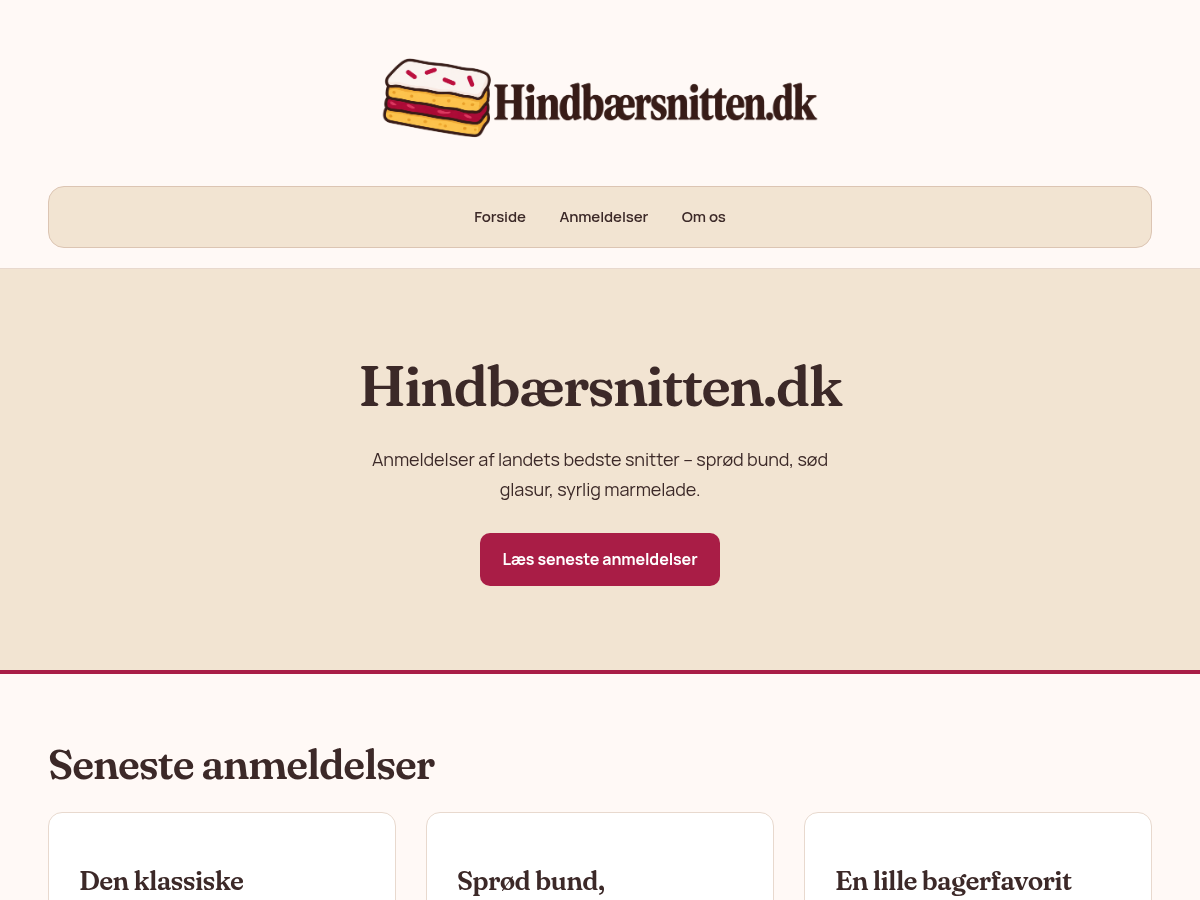
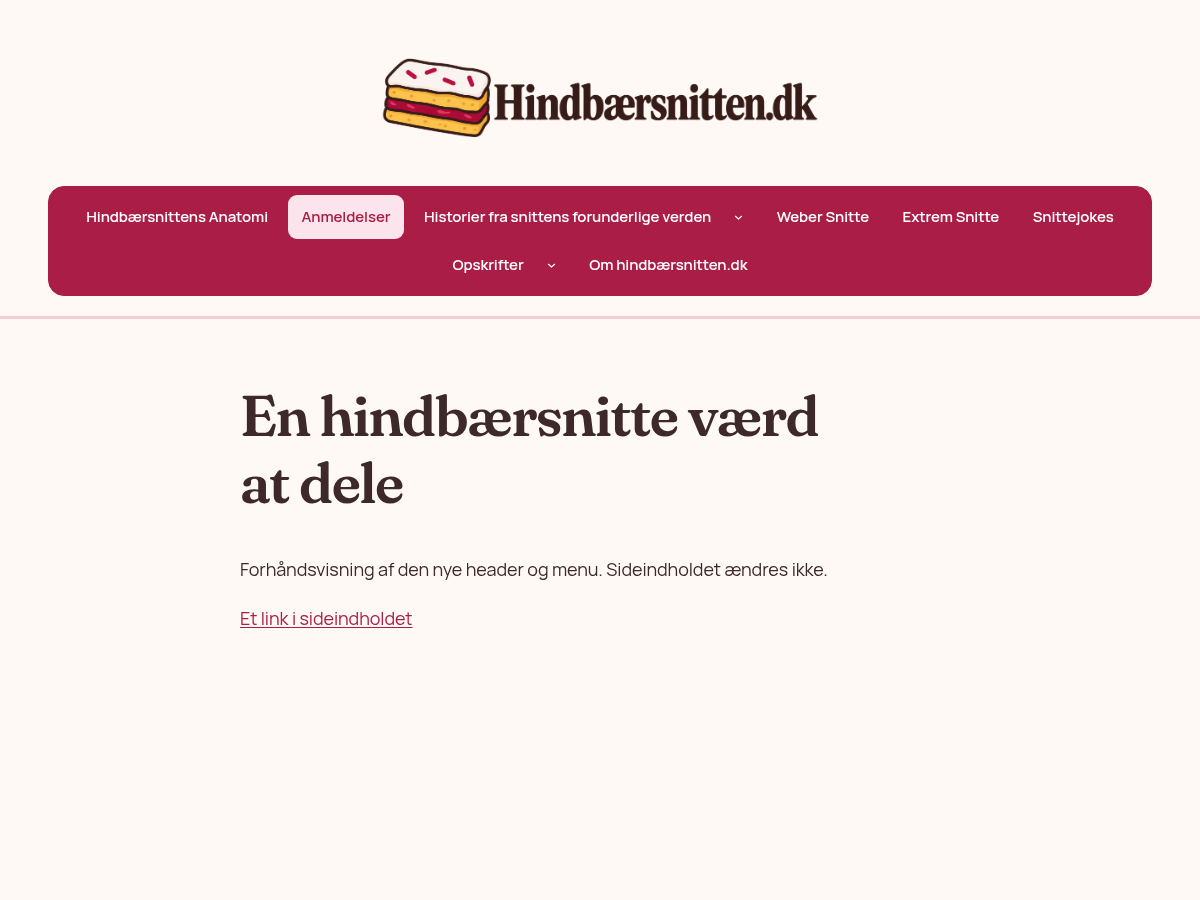
Give header navigation raspberry and pink accents

diff --git a/assets/css/custom.css b/assets/css/custom.css
@@ -176,7 +176,7 @@ body { -webkit-font-smoothing: antialiased; }
 /* Header: a quiet logo row and a distinct, framed navigation bar. */
 .hs-site-header {
   padding: clamp(.75rem, 1.8vw, 1.5rem) var(--hs-gutter) 1.25rem;
-  border-bottom: 1px solid var(--hs-border);
+  border-bottom: 3px solid #f3ccd8;
   background: var(--wp--preset--color--icing);
 }
 .hs-site-header .hs-header-inner {
@@ -193,10 +193,10 @@ body { -webkit-font-smoothing: antialiased; }
   box-sizing: border-box;
   width: 100%;
   padding: .5rem;
-  border: 1px solid #dcc5b3;
+  border: 1px solid var(--wp--preset--color--raspberry);
   border-radius: 16px;
-  background: var(--wp--preset--color--shortbread);
-  color: var(--wp--preset--color--chocolate);
+  background: var(--wp--preset--color--raspberry);
+  color: #fff;
   justify-content: center;
   font-size: .9375rem;
 }
@@ -215,25 +215,25 @@ nav.hs-header-menu .wp-block-navigation-item__content {
   line-height: 1.5;
 }
 nav.hs-header-menu .wp-block-navigation-item:hover,
-nav.hs-header-menu .wp-block-navigation-item:focus-within { background: var(--wp--preset--color--white); }
+nav.hs-header-menu .wp-block-navigation-item:focus-within { background: #fce4ec; color: var(--wp--preset--color--raspberry); }
 nav.hs-header-menu .wp-block-navigation-item__content:hover { color: var(--wp--preset--color--raspberry); text-decoration: none; }
 nav.hs-header-menu :is(.current-menu-item, .current_page_item) > .wp-block-navigation-item__content,
 nav.hs-header-menu .wp-block-navigation-item__content[aria-current="page"] {
-  background: var(--wp--preset--color--raspberry);
-  color: #fff;
+  background: #fce4ec;
+  color: var(--wp--preset--color--raspberry);
 }
 nav.hs-header-menu .wp-block-navigation-item__content:focus-visible,
-nav.hs-header-menu button:focus-visible { outline: 2px solid var(--wp--preset--color--raspberry); outline-offset: 3px; }
+nav.hs-header-menu button:focus-visible { outline: 2px solid #fce4ec; outline-offset: 3px; }
 nav.hs-header-menu .wp-block-navigation-submenu__toggle { color: inherit; min-height: 44px; }
 nav.hs-header-menu .wp-block-navigation__submenu-icon { min-width: 28px; min-height: 44px; margin: 0 .25rem 0 0; }
-nav.hs-header-menu .wp-block-navigation__submenu-container {
+nav.hs-header-menu.wp-block-navigation .wp-block-navigation__submenu-container {
   box-sizing: border-box;
   min-width: 15rem;
   max-width: min(22rem, 90vw);
   padding: .4rem;
-  border: 1px solid var(--hs-border);
+  border: 1px solid #e5adbf;
   border-radius: 12px;
-  background: var(--wp--preset--color--white);
+  background: #fff5f8;
   color: var(--wp--preset--color--chocolate);
   box-shadow: 0 8px 24px #3c292814;
   gap: .15rem;
@@ -248,10 +248,10 @@ nav.hs-header-menu .wp-block-navigation__responsive-container-close {
   min-height: 48px;
   align-items: center;
   justify-content: center;
-  border: 1px solid #dcc5b3;
+  border: 1px solid var(--wp--preset--color--raspberry);
   border-radius: 12px;
-  background: var(--wp--preset--color--shortbread);
-  color: var(--wp--preset--color--raspberry);
+  background: var(--wp--preset--color--raspberry);
+  color: #fff;
 }
 nav.hs-header-menu.wp-block-navigation .wp-block-navigation__responsive-container.is-menu-open:not(.disable-default-overlay) {
   box-sizing: border-box;
@@ -273,13 +273,13 @@ nav.hs-header-menu .wp-block-navigation__responsive-container.is-menu-open .wp-b
 nav.hs-header-menu .wp-block-navigation__responsive-container.is-menu-open .wp-block-navigation__responsive-container-content .wp-block-navigation-item__content {
   width: 100%;
   padding: .9rem 1rem;
-  border: 1px solid var(--hs-border);
+  border: 1px solid #edc8d4;
   border-radius: 10px;
   background: var(--wp--preset--color--white);
   font-size: 1rem;
   text-align: left;
 }
-nav.hs-header-menu .wp-block-navigation__responsive-container.is-menu-open .wp-block-navigation__responsive-container-content :is(.current-menu-item, .current_page_item) > .wp-block-navigation-item__content { background: var(--wp--preset--color--raspberry); color: white; }
+nav.hs-header-menu .wp-block-navigation__responsive-container.is-menu-open .wp-block-navigation__responsive-container-content :is(.current-menu-item, .current_page_item) > .wp-block-navigation-item__content { background: #fce4ec; color: var(--wp--preset--color--raspberry); }
 nav.hs-header-menu .wp-block-navigation__responsive-container.is-menu-open .wp-block-navigation__responsive-container-content .has-child .wp-block-navigation__submenu-container {
   width: 100%;
   min-width: 0;
@@ -308,3 +308,10 @@ nav.hs-header-menu .is-menu-open .wp-block-navigation__responsive-container-clos
   display: flex;
 }
 body.admin-bar nav.hs-header-menu .is-menu-open .wp-block-navigation__responsive-container-close { top: 3.5rem; }
+
+/* Keep focus visible on both the dark band and the light mobile/submenu surfaces. */
+nav.hs-header-menu .wp-block-navigation__submenu-container .wp-block-navigation-item__content:focus-visible,
+nav.hs-header-menu .is-menu-open .wp-block-navigation-item__content:focus-visible,
+nav.hs-header-menu .wp-block-navigation__responsive-container-open:focus-visible,
+nav.hs-header-menu .wp-block-navigation__responsive-container-close:focus-visible { outline-color: var(--wp--preset--color--raspberry); }
+nav.hs-header-menu .is-menu-open .wp-block-navigation-item__content:hover { background: #fce4ec; }

diff --git a/style.css b/style.css
@@ -7,7 +7,7 @@ Author URI: https://www.hindbaersnitten.dk/
 Description: Et letvægts child-theme med farver og typografi inspireret af en hindbærsnitte. Bygger på Twenty Twenty-Five og giver templates til anmeldelser.
 Template: twentytwentyfive
 Text Domain: hindbaersnitten
-Version: 1.2.1
+Version: 1.3.0
 License: GNU General Public License v2 or later
 License URI: https://www.gnu.org/licenses/gpl-2.0.html
 Tags: blog, custom-colors, block-patterns, full-site-editing, accessibility-ready

diff --git a/README.md b/README.md
@@ -132,3 +132,11 @@ under Sider for at ændre indholdet, inklusive eventuel hovedoverskrift.
 Hvis en tidligere Forside-skabelon er gemt i webstedseditoren, har den forrang.
 Gem en kopi af egne tilpasninger og nulstil Forside under Udseende → Editor →
 Skabeloner, eller erstat manuelt det faste indhold med blokken Indlægsindhold.
+
+## Hindbærfarvet menu i version 1.3.0
+
+Menubåndet er hindbærrødt med hvid tekst og lys rosa markeringer. Undermenuer
+er næsten hvide med rosa tone og kant. Burger- og lukkeknapper er hindbærrøde,
+og headeren afsluttes med en smal rosa kant. Den åbne mobilmenu er fortsat lys.
+Ændringen bruger den eksisterende `hs-header-menu` og ændrer ikke menuindhold
+eller gemte skabeloner.

diff --git a/CHANGELOG.md b/CHANGELOG.md
@@ -1,3 +1,9 @@
+## 1.3.0
+
+- Hindbærrødt menubånd med hvid tekst og lyserød markering af aktiv side, hover og fokus.
+- Lyse rosa undermenuer, hindbærrøde mobilknapper og en smal rosa kant under headeren.
+- Eksisterende headerlayout, logo og responsive navigation bevares.
+
 ## 1.2.1
 
 - Forsideskabelonen viser nu indholdet fra den valgte statiske side via Indlægsindhold.
